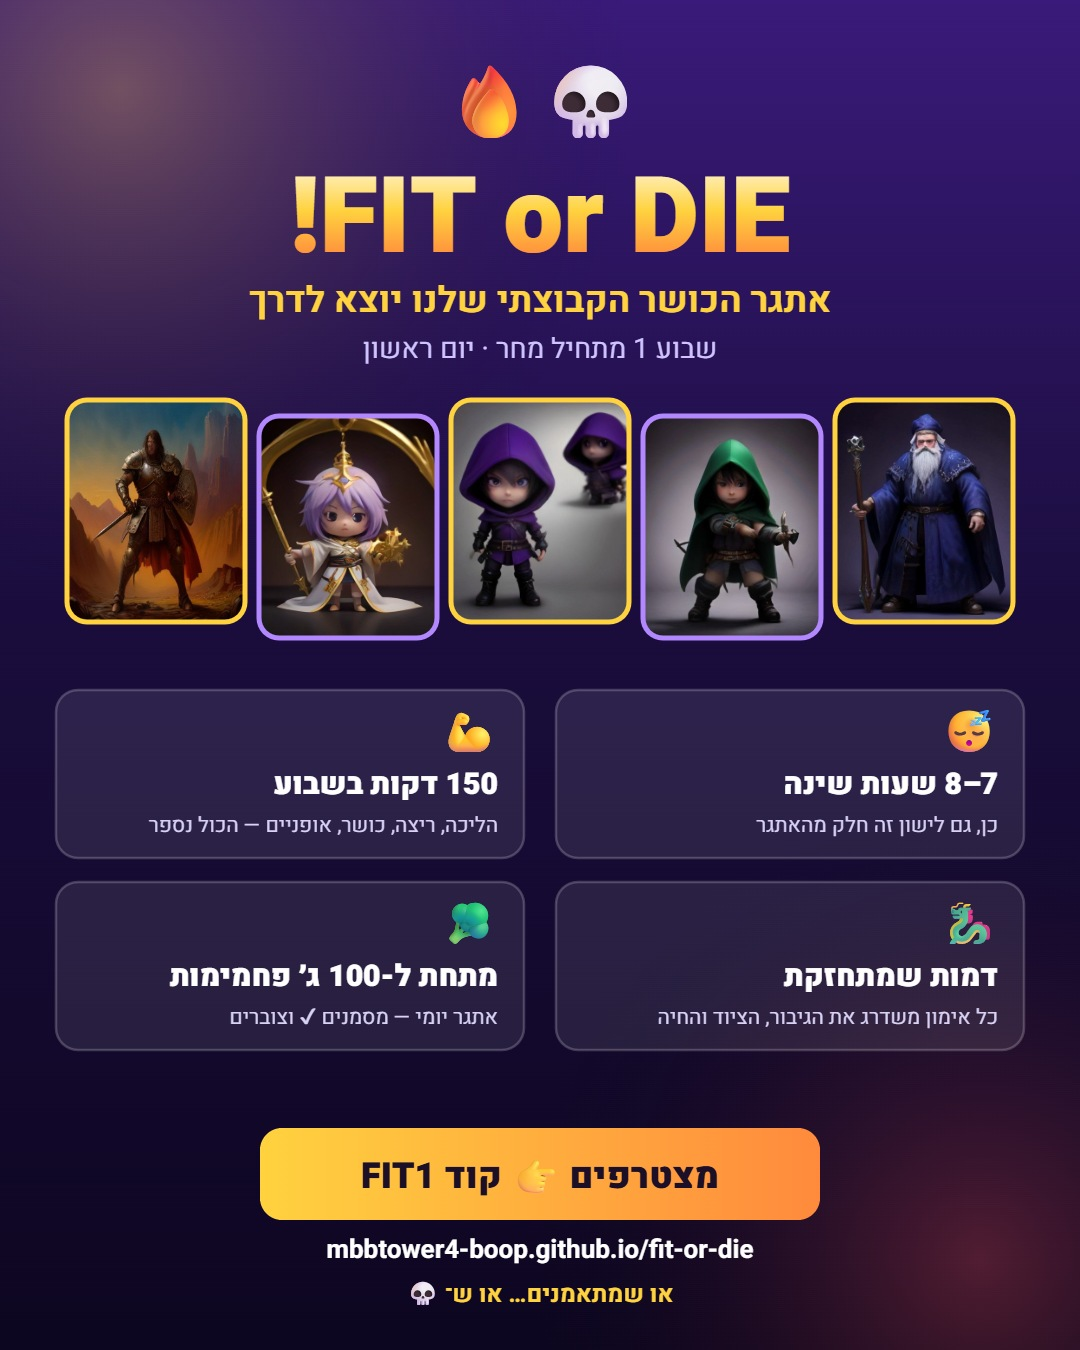
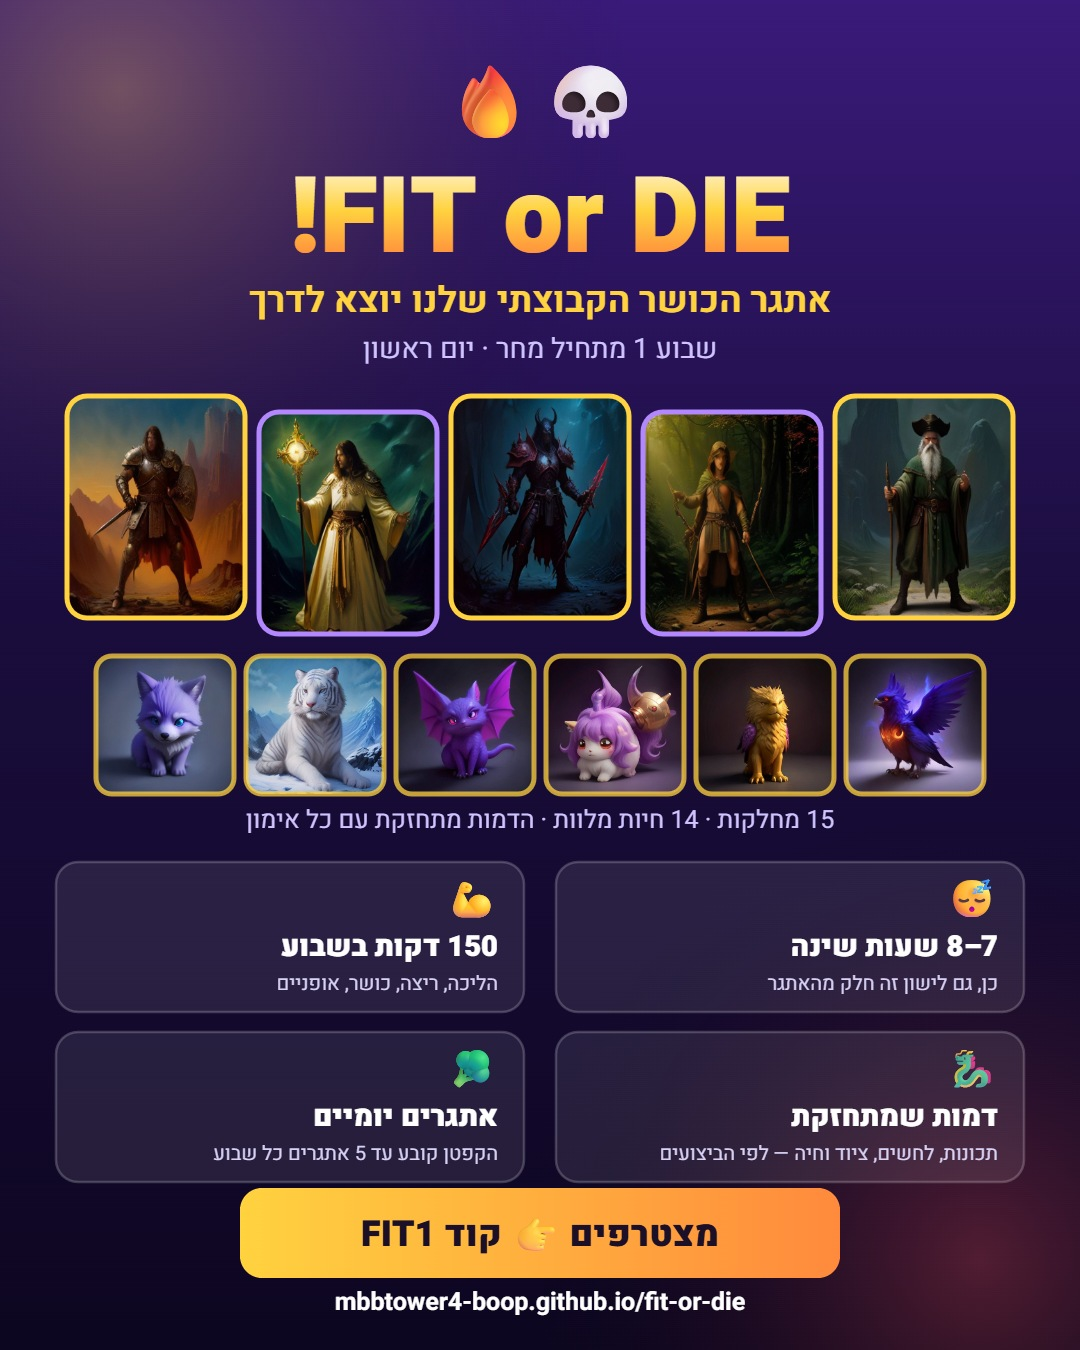
עדכון פוסטר 1 — ציורי שמן חדשים ושורת חיות

Changed region(s): [[0.0306, 0.28, 0.9472, 0.9956], [0.0306, 0.84, 0.0611, 0.8711]]

diff --git a/promo/make.html b/promo/make.html
@@ -47,32 +47,39 @@ async function p1() {
   txt('אתגר הכושר הקבוצתי שלנו יוצא לדרך', W/2, 312, 36, '#ffd23f', 700);
   txt('שבוע 1 מתחיל מחר · יום ראשון', W/2, 358, 28, '#cfc4ff', 400);
 
-  const files = ['fighter-2','cleric-2','rogue-4','ranger-5','wizard-6'];
+  // חמישה גיבורים בציור השמן החדש
+  const files = ['fighter-2','cleric-3','deathknight-2','ranger-2','wizard-3'];
   const imgs = await Promise.all(files.map(f => load('../avatars/' + f + '.jpg')));
   const pw = 178, ph = 222, gap = 14, total = files.length * pw + (files.length-1) * gap;
-  imgs.forEach((im, i) => pic(im, (W - total)/2 + i*(pw+gap), 400 + (i%2 ? 16 : 0), pw, ph, i%2 ? '#b388ff' : '#ffd23f', 20));
+  imgs.forEach((im, i) => pic(im, (W - total)/2 + i*(pw+gap), 396 + (i%2 ? 16 : 0), pw, ph, i%2 ? '#b388ff' : '#ffd23f', 20));
 
-  const items = [['💪','150 דקות בשבוע','הליכה, ריצה, כושר, אופניים — הכול נספר'],
+  // שורת חיות מלוות
+  const pets = ['wolf-1','tiger-1','dragon-1','unicorn-1','griffin-1','phoenix-1'];
+  const pimgs = await Promise.all(pets.map(f => load('../avatars/' + f + '.jpg')));
+  const qw = 138, qgap = 12, qtot = pets.length * qw + (pets.length-1) * qgap;
+  pimgs.forEach((im, i) => pic(im, (W - qtot)/2 + i*(qw+qgap), 656, qw, qw, 'rgba(255,210,63,.75)', 16));
+  txt('15 מחלקות · 14 חיות מלוות · הדמות מתחזקת עם כל אימון', W/2, 828, 25, '#cfc4ff', 400);
+
+  const items = [['💪','150 דקות בשבוע','הליכה, ריצה, כושר, אופניים'],
                  ['😴','7–8 שעות שינה','כן, גם לישון זה חלק מהאתגר'],
-                 ['🥦','מתחת ל-100 ג׳ פחמימות','אתגר יומי — מסמנים ✔ וצוברים'],
-                 ['🐉','דמות שמתחזקת','כל אימון משדרג את הגיבור, הציוד והחיה']];
-  const cw = 468, chh = 168;
+                 ['🥦','אתגרים יומיים','הקפטן קובע עד 5 אתגרים כל שבוע'],
+                 ['🐉','דמות שמתחזקת','תכונות, לחשים, ציוד וחיה — לפי הביצועים']];
+  const cw = 468, chh = 150;
   items.forEach((it, i) => {
-    const x = 56 + (i%2) * (cw + 32), y = 690 + Math.floor(i/2) * (chh + 24);
+    const x = 56 + (i%2) * (cw + 32), y = 862 + Math.floor(i/2) * (chh + 20);
     card(x, y, cw, chh, 'rgba(255,255,255,.09)', 'rgba(255,255,255,.20)');
-    txt(it[0], x + cw - 26, y + 56, 42, '#fff', 700, 'right');
-    txt(it[1], x + cw - 26, y + 104, 30, '#fff', 900, 'right');
-    txt(it[2], x + cw - 26, y + 142, 21, '#d8d2f5', 400, 'right');
+    txt(it[0], x + cw - 26, y + 50, 38, '#fff', 700, 'right');
+    txt(it[1], x + cw - 26, y + 94, 29, '#fff', 900, 'right');
+    txt(it[2], x + cw - 26, y + 128, 20, '#d8d2f5', 400, 'right');
   });
 
-  const bx = (W - 560)/2;
-  const bg2 = X.createLinearGradient(bx, 0, bx+560, 0);
+  const bx = (W - 600)/2;
+  const bg2 = X.createLinearGradient(bx, 0, bx+600, 0);
   bg2.addColorStop(0, '#ffd23f'); bg2.addColorStop(1, '#ff8a3d');
-  card(bx, 1128, 560, 92, bg2);
-  txt('מצטרפים 👉 קוד FIT1', W/2, 1188, 36, '#1c1029', 900);
-  X.save(); X.direction = 'ltr'; X.textAlign = 'center'; X.fillStyle = '#fff'; X.font = '700 26px Heebo, Arial';
-  X.fillText('mbbtower4-boop.github.io/fit-or-die', W/2, 1258); X.restore();
-  txt('או שמתאמנים… או ש־ 💀', W/2, 1302, 24, '#ffd23f', 700);
+  card(bx, 1188, 600, 90, bg2);
+  txt('מצטרפים 👉 קוד FIT1', W/2, 1246, 36, '#1c1029', 900);
+  X.save(); X.direction = 'ltr'; X.textAlign = 'center'; X.fillStyle = '#fff'; X.font = '700 25px Heebo, Arial';
+  X.fillText('mbbtower4-boop.github.io/fit-or-die', W/2, 1310); X.restore();
 }
 
 /* ===== כרזה 2 — מגילת קלף ===== */
